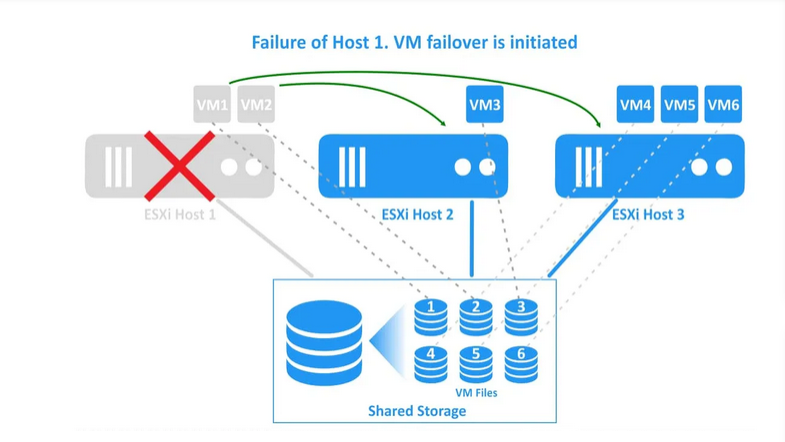
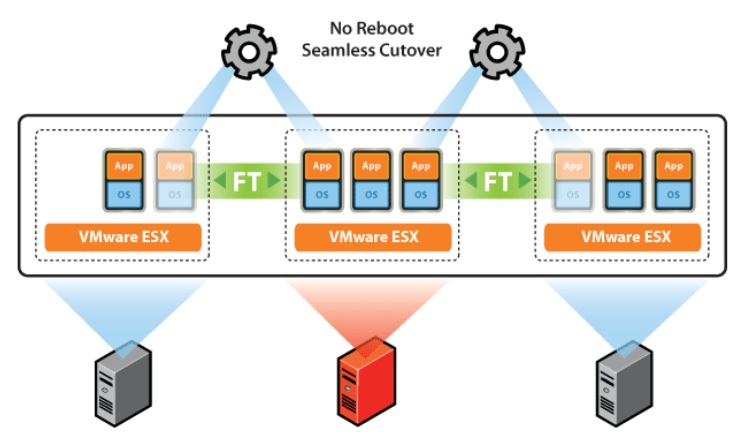
update

diff --git a/case-study-banking.html b/case-study-banking.html
@@ -93,7 +93,7 @@
 <h1>Banking Infrastructure Modernization</h1>
 <p><strong>Secure, Resilient, and Compliant Infrastructure for Multi-Branch Banking Operations</strong></p>
 <img class="featured-image"
-     src="assets/img/casestudy/DR.png"
+     src="assets/img/casestudy/dr.png"
      alt="Secure enterprise banking data center servers"
      loading="lazy"
 	 style="max-width:600px; width:100%; height:auto;">
